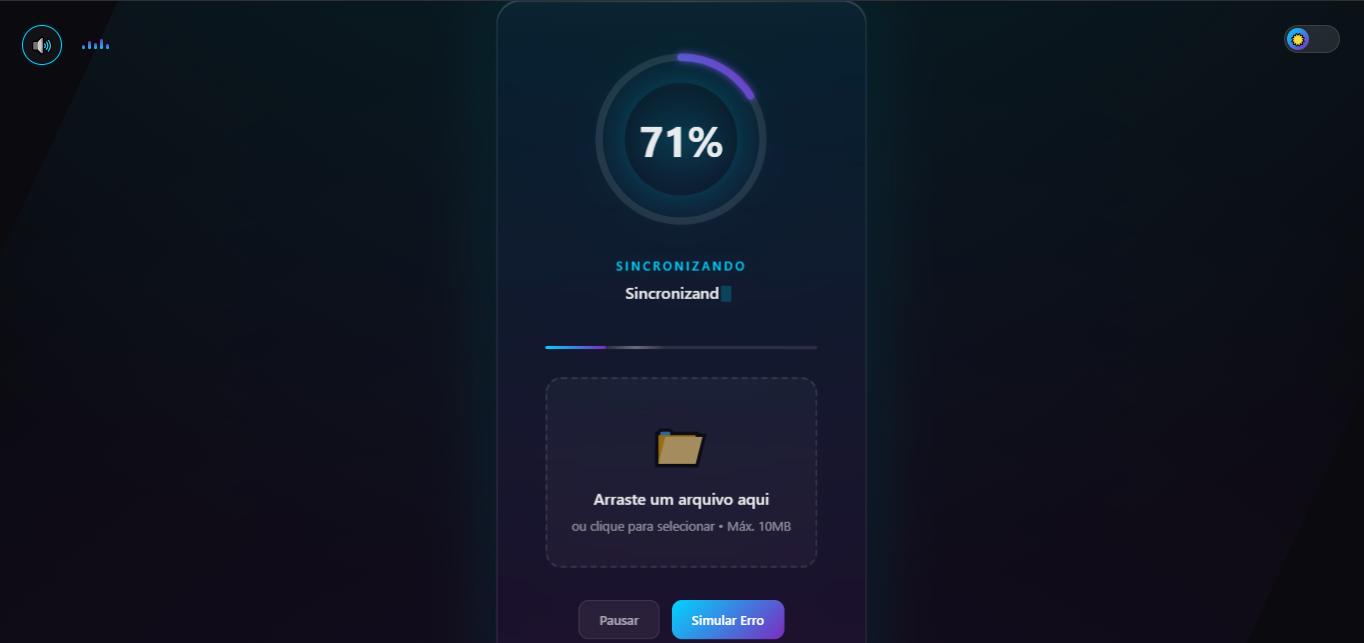
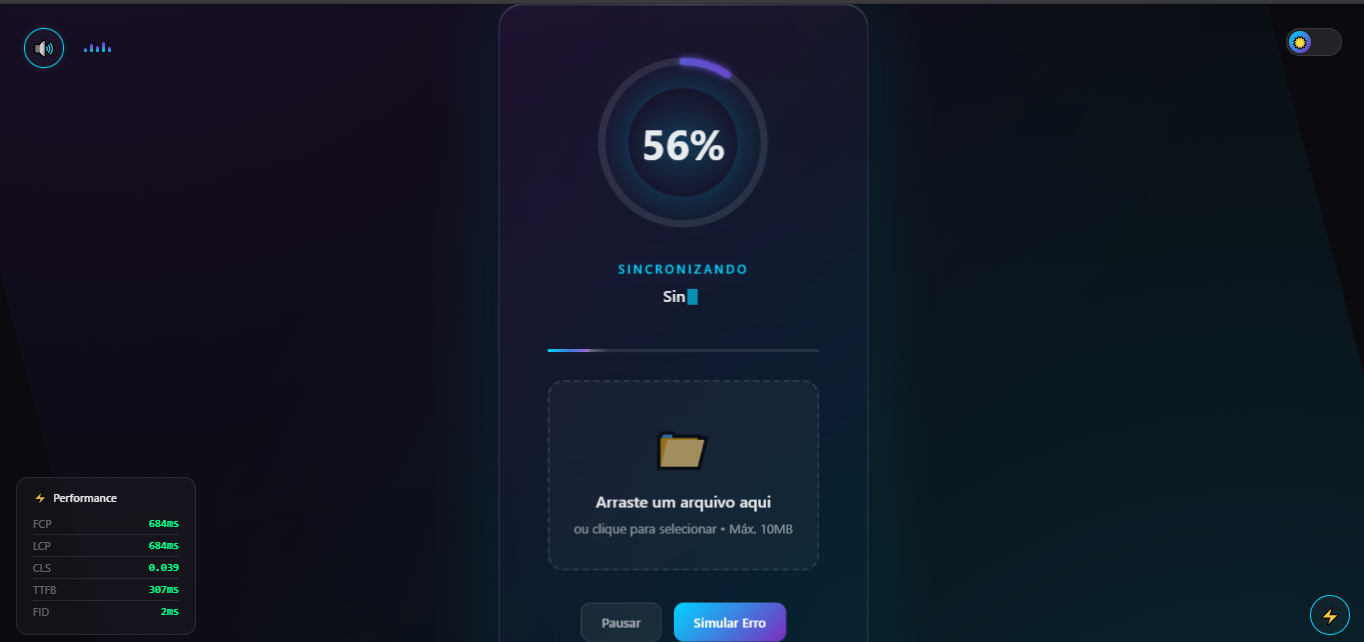
docs: update README with Day 6 PWA features and Web Vitals explanation
- Add PWA installable badge and License badge
- Add complete Web Vitals explanation section (FCP, LCP, CLS, TTFB, FID)
- Add PWA installation instructions
- Mark Day 6 as completed in roadmap
- Update architecture with pwa-manager and service-worker
- Add MIT License file

diff --git a/README.md b/README.md
@@ -3,6 +3,7 @@
 [![Status](https://img.shields.io/badge/status-active-success.svg)]()
 [![GitHub Pages](https://img.shields.io/badge/GitHub%20Pages-Live-blue.svg)](https://gustavodeoliveiradev.github.io/quantum-glass-loader/)
 [![Progress](https://img.shields.io/badge/progress-7%20days%20challenge-orange.svg)]()
+[![License](https://img.shields.io/badge/license-MIT-green.svg)](LICENSE)
 
 > Um loader moderno e interativo com **glassmorphism**, progressão **não-linear** e micro-interações fluidas. Desenvolvido como projeto de 7 dias para aprender boas práticas de frontend modular.
 
@@ -13,6 +14,7 @@
   <img src="https://img.shields.io/badge/upload-real%20%7C%20simulated-ff6b6b" alt="Upload">
   <img src="https://img.shields.io/badge/audio-Web%20Audio%20API-ff9f43" alt="Audio">
   <img src="https://img.shields.io/badge/monitoring-Web%20Vitals-9b59b6" alt="Monitoring">
+  <img src="https://img.shields.io/badge/PWA-installable-00d4ff" alt="PWA">
 </p>
 
 ---
@@ -37,12 +39,12 @@
 - **📤 Upload Real** — Arraste arquivos ou selecione para upload com progresso em bytes
 - **🎵 Áudio Imersivo** — Web Audio API com pitch progressivo, arpeggio de sucesso, e visualizador
 - **⚡ Web Vitals** — Monitoramento em tempo real de FCP, LCP, CLS, TTFB, FID
+- **📱 PWA Completo** — Instalável, funciona offline, com prompt de instalação customizado
 - **🛡 Segurança** — Disclaimer de privacidade, validação de arquivos, sanitização de dados
 - **🎯 Micro-interações** — Pausar, simular erro, reiniciar com animações suaves
 - **🎉 Partículas** — Explosão de confete ao completar com física realista
 - **⌨ Acessibilidade** — Navegação por teclado, ARIA labels, `prefers-reduced-motion`, skip links
 - **📱 Responsivo** — Adaptativo para mobile e desktop, sem highlight azul no toque
-- **🔧 PWA** — Service Worker para cache, manifest.json para instalação
 
 ---
 
@@ -61,12 +63,27 @@
 
 ---
 
+## ⚡ Web Vitals — O que significa cada métrica?
+
+| Sigla | Nome | O que mede | Ideal |
+|-------|------|-----------|-------|
+| **FCP** | First Contentful Paint | Quando o primeiro conteúdo aparece | < 1.8s 🟢 |
+| **LCP** | Largest Contentful Paint | Quando o maior elemento carrega | < 2.5s 🟢 |
+| **CLS** | Cumulative Layout Shift | Quanto a tela "pula" durante loading | < 0.1 🟢 |
+| **TTFB** | Time to First Byte | Tempo até o servidor responder | < 800ms 🟢 |
+| **FID** | First Input Delay | Delay até responder ao primeiro clique | < 100ms 🟢 |
+
+> Clique no ⚡ no canto inferior direito para ver as métricas em tempo real!
+
+---
+
 ## 🏗 Arquitetura Modular
 
 ```
 quantum-loader/
 ├── index.html              # Estrutura semântica + SEO meta tags
 ├── manifest.json           # PWA manifest
+├── LICENSE                 # MIT License
 ├── css/
 │   ├── base.css            # Variáveis de tema, reset, utilitários, mobile fixes
 │   ├── theme-toggle.css    # Switch dark/light animado
@@ -78,7 +95,9 @@ quantum-loader/
 │   ├── upload-zone.css     # Área de drag & drop
 │   ├── file-list.css       # Lista de arquivos
 │   ├── disclaimer.css      # Modal de segurança
-│   └── performance-panel.css # Painel de métricas Web Vitals
+│   ├── performance-panel.css # Painel de métricas Web Vitals
+│   ├── pwa-install.css     # Banner de instalação PWA
+│   └── offline-toast.css   # Notificação de status de rede
 └── js/
     ├── config.js           # Constantes centralizadas
     ├── state.js            # Gerenciamento de estado
@@ -92,6 +111,7 @@ quantum-loader/
     ├── progress.js         # Lógica de animação não-linear
     ├── upload-manager.js   # Gerenciamento de upload
     ├── performance-monitor.js # Monitoramento Web Vitals
+    ├── pwa-manager.js      # Gerenciamento PWA (install, offline, updates)
     ├── service-worker.js   # Cache de assets + offline support
     └── main.js             # Orquestrador
 ```
@@ -120,6 +140,11 @@ quantum-loader/
 2. Veja métricas Web Vitals em tempo real (FCP, LCP, CLS, TTFB, FID)
 3. Cores indicam: 🟢 bom / 🟡 melhorar / 🔴 ruim
 
+### Instalar como App (PWA)
+1. Clique no banner de instalação na parte inferior (quando aparecer)
+2. Ou use o menu do navegador: "Instalar Quantum Glass Loader"
+3. O app funciona **offline** e aparece na tela inicial!
+
 ### Local
 ```bash
 git clone https://github.com/gustavodeoliveiradev/quantum-glass-loader.git
@@ -141,8 +166,8 @@ npx serve .
 | **Dia 2** | Tema Dark/Light toggle + Persistência + Detecção SO | ✅ Completo | `feat: add dark/light theme toggle system` |
 | **Dia 3** | Upload Real com Drag & Drop + Segurança | ✅ Completo | `feat: add real file upload with drag & drop and security disclaimer` |
 | **Dia 4** | Web Audio API + Animações Avançadas | ✅ Completo | `feat: add Web Audio API and advanced animations` |
-| **Dia 5** | Performance + Web Vitals + PWA + Mobile Fixes | ✅ Completo | `feat: add performance monitor with Web Vitals metrics` |
-| **Dia 6** | PWA completo + Offline support + Install prompt | 🔜 Em breve | — |
+| **Dia 5** | Performance + Web Vitals + Mobile Fixes | ✅ Completo | `feat: add performance monitor with Web Vitals metrics` |
+| **Dia 6** | PWA Completo + Offline + Install Prompt + License | ✅ Completo | `feat: add PWA complete support with install prompt and offline mode` |
 | **Dia 7** | Documentação final + Polish + Deploy | 🔜 Em breve | — |
 
 > 🔄 **Atualizações diárias durante a semana!** Cada dia terá um novo commit com features e melhorias.
@@ -159,7 +184,8 @@ npx serve .
 - **XMLHttpRequest** — Upload com monitoramento de progresso real
 - **Web Audio API** — Osciladores, envelopes, analisador de frequência
 - **Performance API** — PerformanceObserver, Web Vitals
-- **Service Worker** — Cache de assets, offline support
+- **Service Worker** — Cache de assets, offline support, background sync
+- **Web App Manifest** — PWA installable, splash screen, theme color
 
 ---
 
@@ -189,7 +215,8 @@ Este projeto foi criado para praticar:
 - ✅ Web Audio API para feedback sonoro
 - ✅ Sincronização áudio-visual em tempo real
 - ✅ Monitoramento de performance (Web Vitals)
-- ✅ Progressive Web App (PWA)
+- ✅ Progressive Web App (PWA) completo
+- ✅ Service Worker com cache e offline
 
 ---
 
@@ -203,7 +230,7 @@ Agradeço ao **App Launcher** pela motivação:
 
 ## 📄 Licença
 
-[MIT License](LICENSE) — sinta-se livre para usar e modificar!
+Este projeto está licenciado sob a [MIT License](LICENSE) — sinta-se livre para usar e modificar!
 
 ---
 
